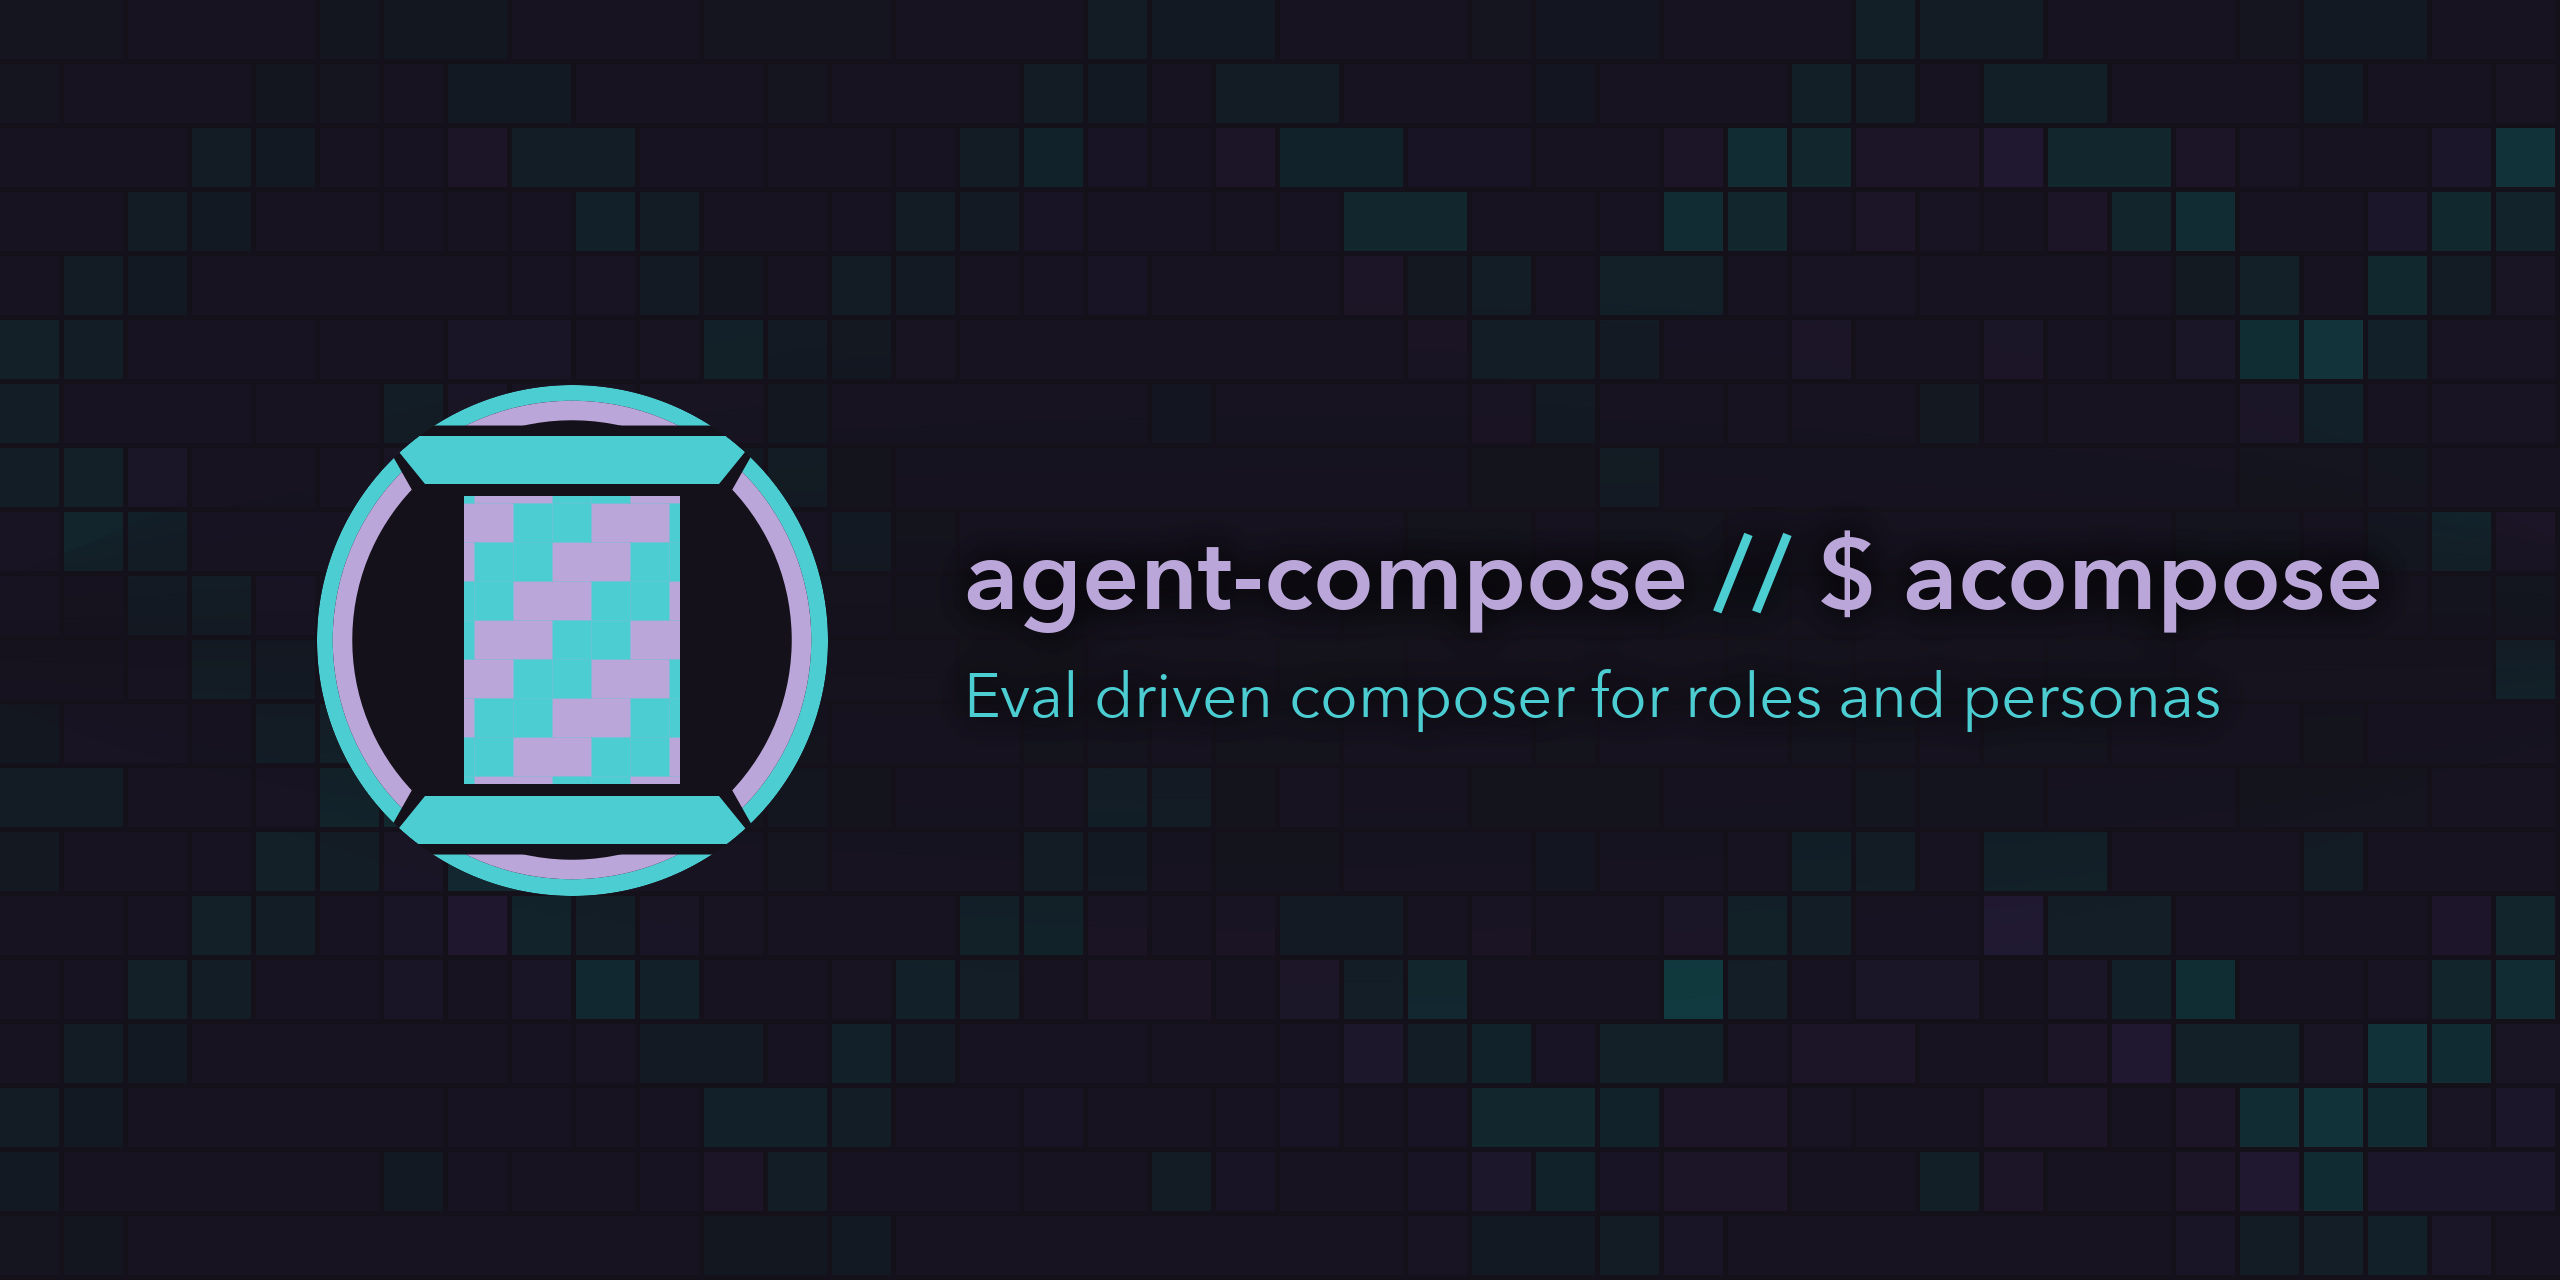
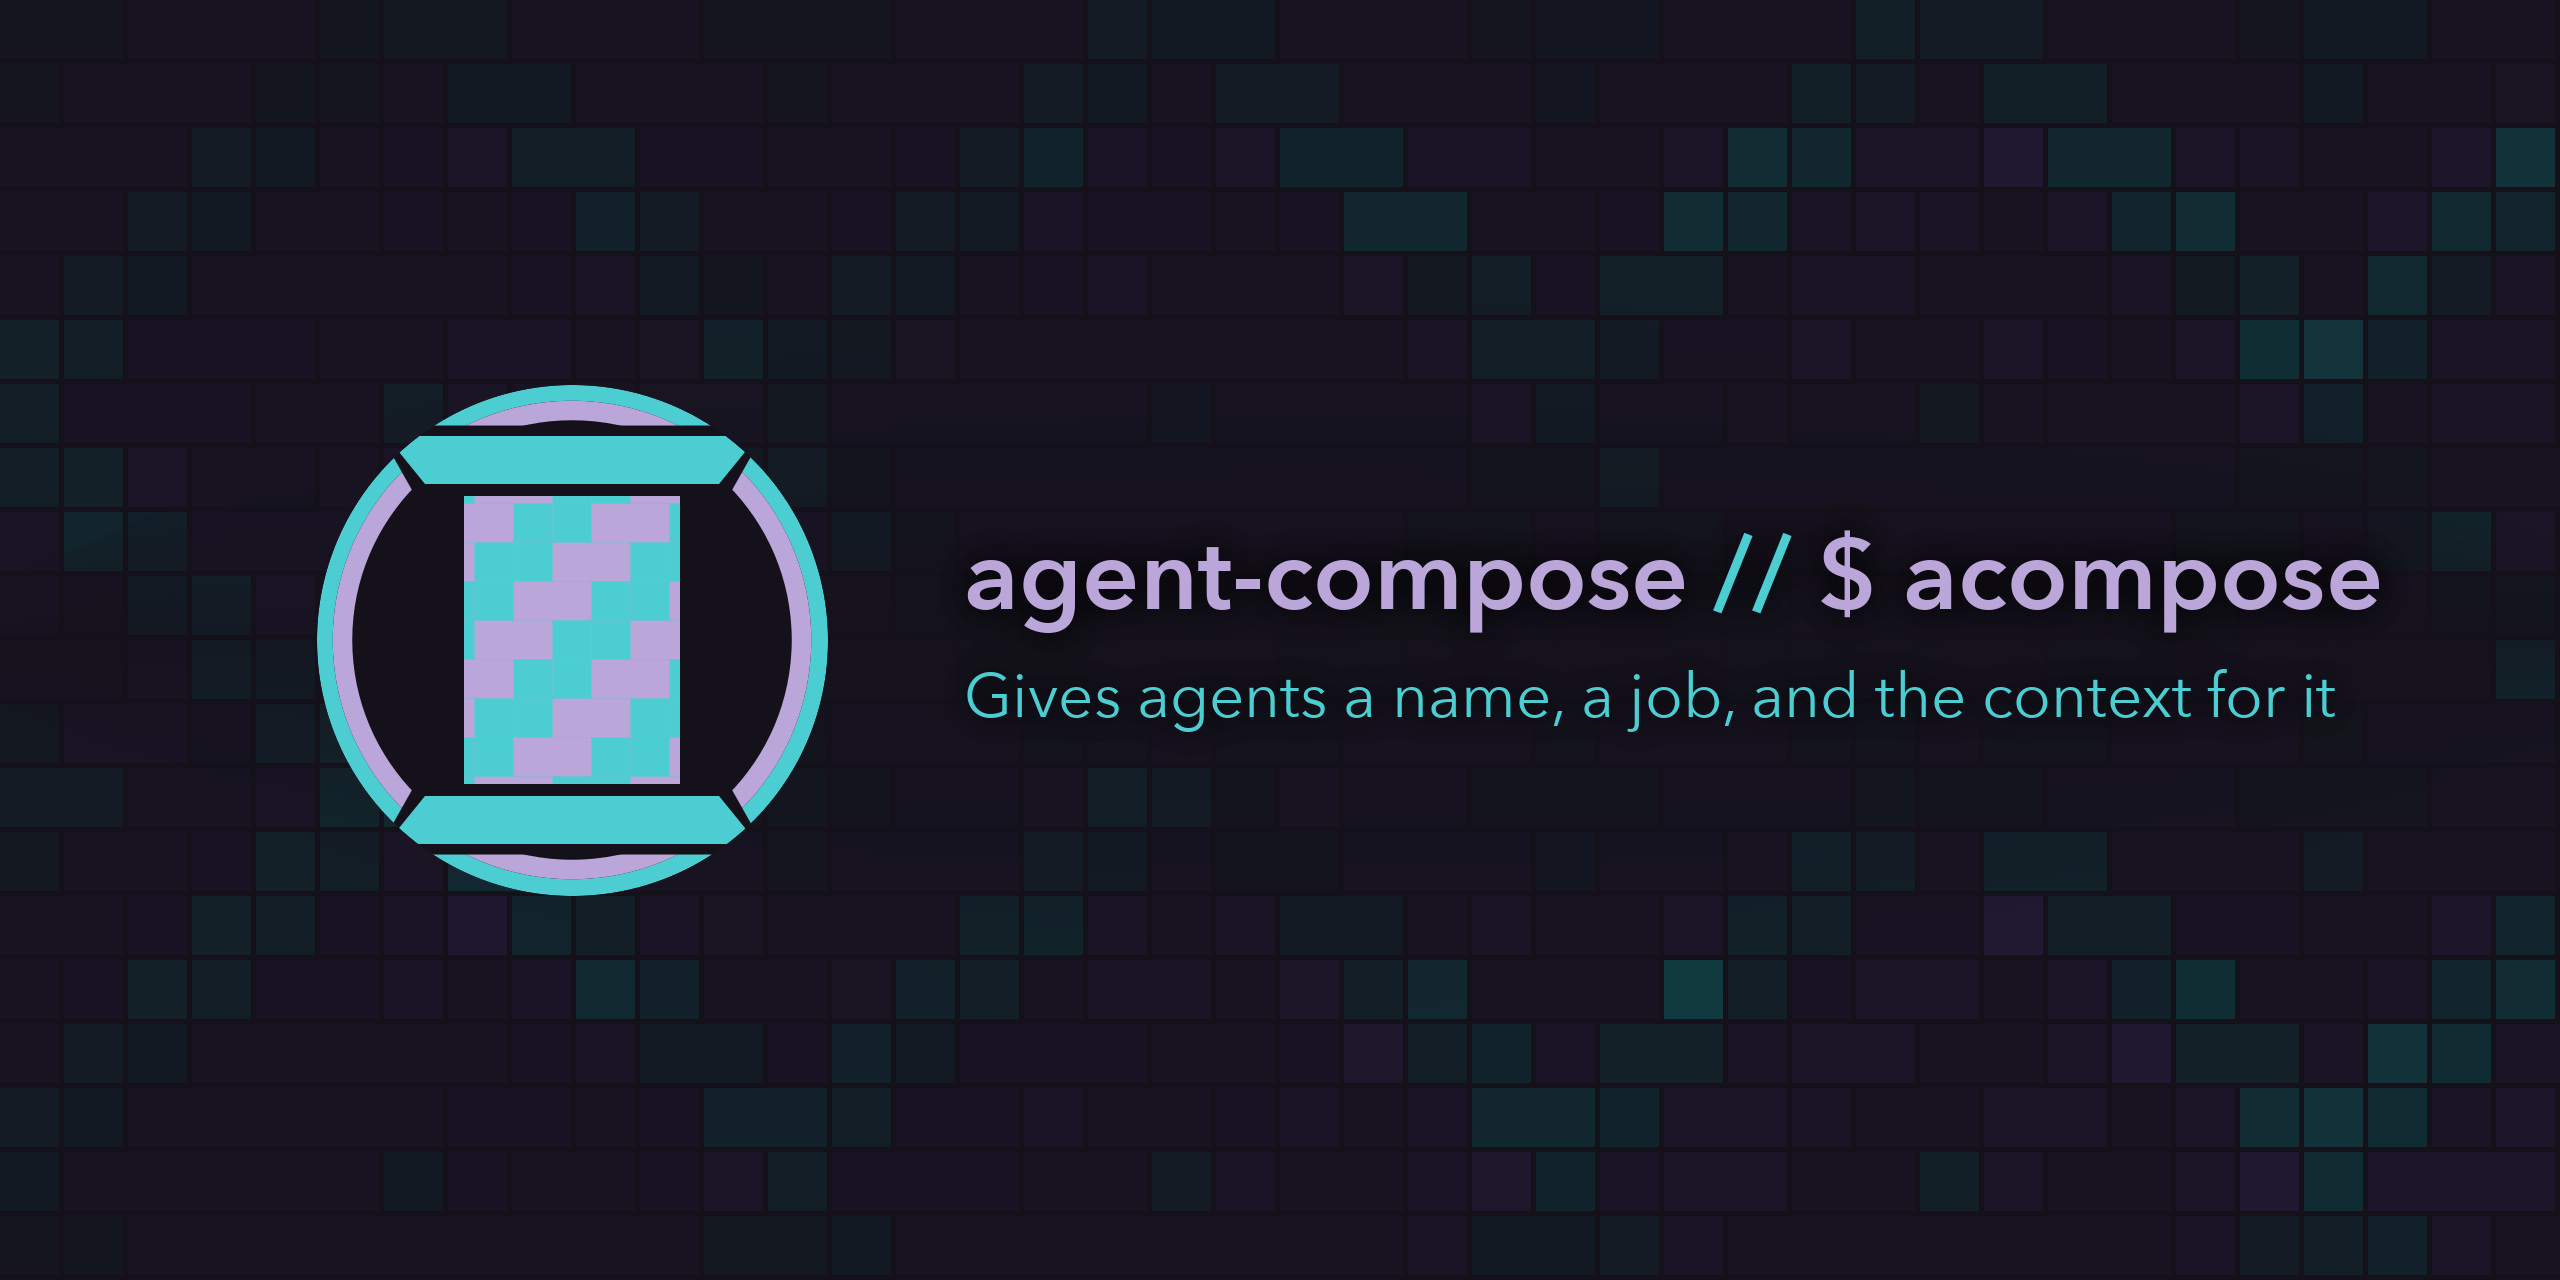
docs(readme): lead with the roster, and say what the board needs
The seven seats appeared once at line 80 as job titles, with no names,
pronouns, melds, or emblems anywhere on the page, while "Why eval driven"
sat at line 18 as the second thing a reader met. Per #381 the eval half is
the part a stranger provably cannot run, so the front page led on its least
reproducible claim and buried the part that works from `brew install` alone.

The roster is now the front door at line 17, carrying all seven seats with
their names, pronouns, charters, and melds. The bond structure is stated
because it is real and it was invisible: seven distinct signature traits,
grouped by three shared bonds, with grounded on the builders, imaginative
on the makers, and outward on the two outward-facing seats.

The eval material survives in full as "The board comes from the roster,"
below the roster and the usage sections, and it now carries the honest
scoping #381 asked for: housecast comes from Forgejo by tag, the subject
answers through Agent Proxy, and the composer works with the eval stack
absent.

The subtitle is replaced in all three places it is stored. The banner
generator moved in agentic-os-xxx at 56286f1 and the rendered asset is
updated here. The Forgejo repository description still carries the old
string and needs a hand.

Two smaller fixes on the way. "A role is context, never permission. The
bundle carries no credential, no mount, and no command" is restated
positively, and negation-carrying lines drop from 12 to 9.
[…]

Changed region(s): [[0.375, 0.5312, 0.9062, 0.5625]]

diff --git a/README.md b/README.md
@@ -1,39 +1,49 @@
 # agent-compose
 
-Eval driven composer for roles and personas
+Gives agents a name, a job, and the context for it
 
-![agent-compose and $ acompose, eval driven composer for roles and personas](assets/banner/agent-compose-banner.jpg)
+![agent-compose and $ acompose, gives agents a name, a job, and the context for it](assets/banner/agent-compose-banner.jpg)
 
 agent-compose compiles the context an agent harness loads. It selects a role,
 the personality meld that role carries, the skills that role can see, and the
 tool inventory it gets, then materializes one immutable bundle of plain files.
 Claude Code, Codex, Goose, and OpenCode all take the same bundle.
 
-**A role is context, never permission.** The bundle carries no credential, no
-mount, and no command, and a role slug shared with a launch consumer transfers
-no authority into agent-compose. Execution permissions, runtime facts, and
-lifecycle stay with whatever launches the agent. You can read and diff the whole
-bundle before a run, and `verify` will tell you it is complete before you do.
+The bundle is context and nothing executable. Permissions, runtime facts, and
+lifecycle stay with whatever launches the agent, so a role slug travels without
+authority attached to it. You can read and diff every file before a run, and
+`verify` reports the bundle complete before you do.
 
-## Why eval driven
+## The roster
 
-The board is derived from the roster rather than written beside it.
-housecast's `evalkit.matrix` reads the roster and prints the cases it implies: boundaries
-and their owners produce the pairs, adjacency produces the role-fit targets, and
-each role's meld produces the personality cases. Add a boundary, flip an
-adjacency edge, or swap a personality and the challenge list moves on its own.
-You cannot write a case that does not correspond to the roster, and you cannot
-change the roster without changing what gets tested.
+`roster:core` is the zero-config default, and it ships seven seats. Each one has
+a name, a charter, and a meld of two personality traits that shape how it writes
+and what it reaches for first.
 
-The hard cases are generated on purpose. Role adjacency names each role's two
-likeliest absorptions, and those reasons become the descriptors a generator uses
-to build exactly the confusion a seat is most at risk of.
+- 🪢🪨 **Angie** (she) - Platform Engineer - builds and lands the foundational software the rest of the estate is built on. Tenacious and grounded.
+- 🛡🪨 **Vera** (she) - Systems Administrator - operates the real hosted systems and release surfaces. Protective and grounded.
+- 🧪🪨 **Evie** (she) - Applied Scientist - measures how agents, models, and inference actually behave on real hardware. Empirical and grounded.
+- 🎨🌈 **Delphi** (she) - Frontend Engineer - shapes and builds the surfaces a person navigates. Playful and imaginative.
+- 🤿🌈 **Sprite** (they) - Game Developer - ships playable games, the code and the assets and the build that carries both. Immersed and imaginative.
+- ✂🔭 **Portia** (they) - Portfolio Director - decides what the portfolio does next, and carries each decision to its gate. Decisive and outward.
+- 🕯🔭 **Gem** (they) - Developer Advocate - turns real work and audience evidence into accurate content and informed commitments. Warm and outward.
 
-Three parties and none of them holds two seats: a generator authors the cases, a
-subject answers them through Agent Proxy, and a human grades them. The grading
-half ships separately as `aos-eval` in agentic-os, so it holds no runner and no
-model client, and grading never spends a token or touches a deployed system.
-Details in [docs/evaluation.md](docs/evaluation.md).
+Every seat melds one signature trait with one bond it shares with a sibling, so
+the seven signature traits are distinct and the bonds group them: the three
+builders share 🪨 grounded, the two makers share 🌈 imaginative, and the two
+outward-facing seats share 🔭 outward.
+
+Each personality carries a colour, an emblem, a motif, and a body written in
+prose, which is where the creature art comes from and what a voice melds along
+with the role's own. See [docs/identity.md](docs/identity.md) and
+[docs/personality.md](docs/personality.md). `just palette-serve` renders the
+whole catalogue locally.
+
+Selection is exclusive. An external person package contributes its own roles,
+seats, personality definitions, and evaluation context, and it replaces
+`roster:core` wholesale rather than merging with it. An `external-only` policy
+makes that boundary fail closed across the machine. See
+[docs/person-packages.md](docs/person-packages.md).
 
 ## Install
 
@@ -73,18 +83,36 @@ Composition adapters can project a verified bundle into an empty staged home
 and wrap it in their own schema. See
 [docs/staged-home.md](docs/staged-home.md).
 
-## The Core Roster
+## The board comes from the roster
 
-The zero-config default, `roster:core`, ships seven seats: Platform Engineer,
-Systems Administrator, Applied Scientist, Frontend Engineer, Game Developer,
-Portfolio Director, and Developer Advocate. Each melds one signature trait with
-one bond it shares with a sibling seat.
+The evaluation board is derived from the roster rather than written beside it.
+housecast's `evalkit.matrix` reads the roster and prints the cases it implies:
+boundaries and their owners produce the pairs, adjacency produces the role-fit
+targets, and each role's meld produces the personality cases. Add a boundary,
+flip an adjacency edge, or swap a personality, and the challenge list moves with
+it. Every case corresponds to something in the roster, and every roster change
+moves what gets tested.
 
-Selection is exclusive. An external person package contributes its own roles,
-seats, personality definitions, and evaluation context, and it replaces
-`roster:core` wholesale rather than merging with it. An `external-only` policy
-makes that boundary fail closed across the machine. See
-[docs/person-packages.md](docs/person-packages.md).
+The hard cases are generated on purpose. Role adjacency names each role's two
+likeliest absorptions, and those reasons become the descriptors a generator uses
+to build exactly the confusion a seat is most at risk of.
+
+Three parties and none of them holds two seats: a generator authors the cases, a
+subject answers them through Agent Proxy, and a human grades them. The grading
+half ships separately as `aos-eval` in agentic-os, so it holds no runner and no
+model client, and grading never spends a token or touches a deployed system.
+Details in [docs/evaluation.md](docs/evaluation.md).
+
+### What the board needs, and what runs without it
+
+Two pieces of the eval half come from outside this repository. housecast is
+pinned from Forgejo by tag, and the subject answers through Agent Proxy, an
+internal transport, so running the board yourself means supplying a model
+transport in its place.
+
+The composer stands on its own. The bundle, the roster, the cascade, `describe`,
+`diff`, and `verify` all work with the eval stack absent, which is the half you
+get from `brew install` alone.
 
 ## Development
 
@@ -108,7 +136,9 @@ MIT. See [LICENSE](LICENSE).
 - [docs/architecture.md](docs/architecture.md) - the composition boundary.
 - [docs/ownership.md](docs/ownership.md) - who owns which boundary, and why.
 - [docs/role-selection.md](docs/role-selection.md) - role-scoped providers and assigned bundles.
+- [docs/identity.md](docs/identity.md) - names, emblems, bodies, and how a voice melds.
 - [docs/personality.md](docs/personality.md) - the personality catalog and palette.
+- [docs/evaluation.md](docs/evaluation.md) - the generator, subject, and grader split.
 - [docs/release.md](docs/release.md) - the automatic Forgejo release pipeline.
 - [justfile](justfile) - development recipes.
 - [.ward/ward.yaml](.ward/ward.yaml) - catalog metadata only.
